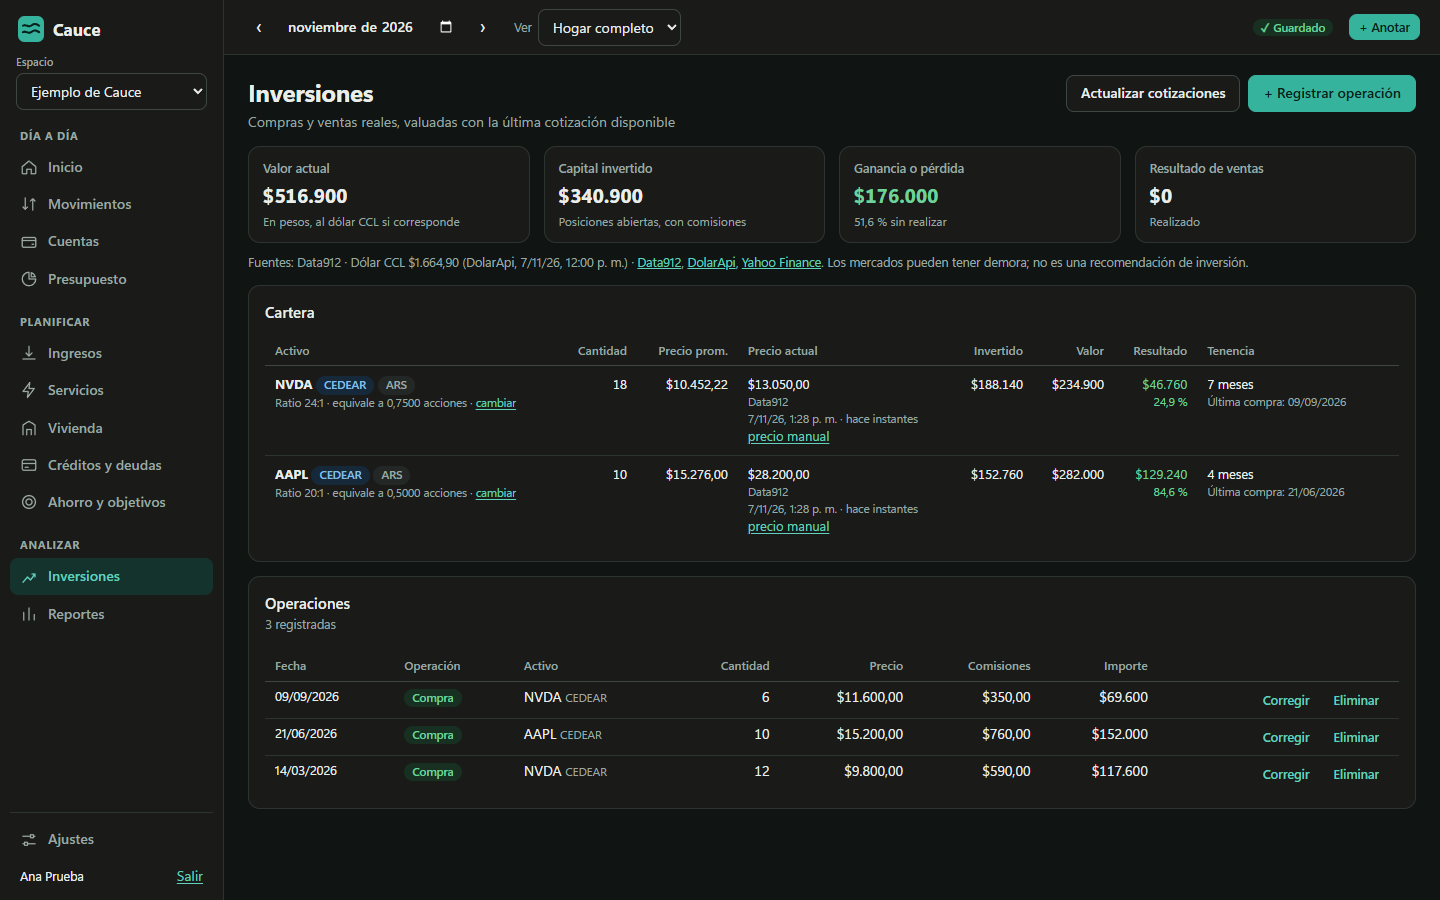
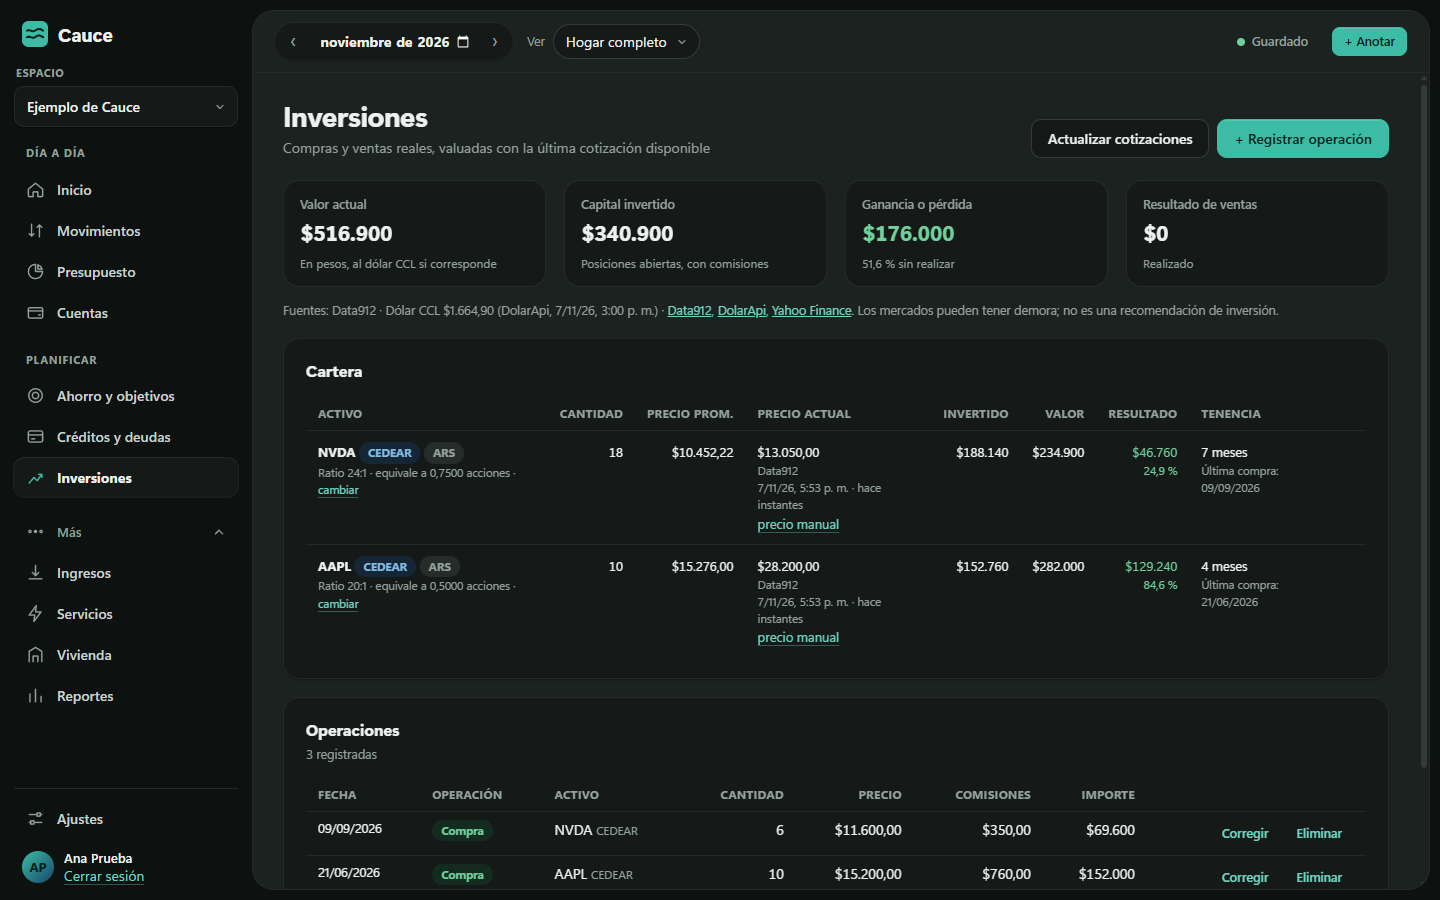
README y capturas de la versión 1.3: rediseño completo

diff --git a/README.md b/README.md
@@ -20,7 +20,7 @@
 <p align="center">
   <a href="https://github.com/th-arroyo/cauce-releases/releases/latest"><strong>Descargar para Windows</strong></a>
   ·
-  <a href="#novedades-de-la-versión-12">Novedades</a>
+  <a href="#novedades-de-la-versión-13">Novedades</a>
   ·
   <a href="#instalación">Cómo instalar</a>
   ·
@@ -30,7 +30,7 @@
 <p align="center">
   <picture>
     <source media="(prefers-color-scheme: dark)" srcset="assets/inicio-oscuro.png">
-    <img src="assets/inicio-claro.png" alt="Pantalla de inicio de Cauce con el restante del mes, el reparto del presupuesto y el plan de acción" width="900">
+    <img src="assets/inicio-claro.png" alt="Pantalla de inicio de Cauce con lo que te quedaría al cerrar el mes, los pagos vencidos, los próximos pagos y el presupuesto" width="900">
   </picture>
 </p>
 
@@ -64,9 +64,22 @@ Cauce convierte tus ingresos, gastos, deudas e inversiones en un presupuesto y u
 | **Reportes** | En qué se fue la plata por categoría, ingresos contra gastos mes a mes y cuánto te quedó. |
 | **Inversiones** | CEDEARs y acciones con cotizaciones actualizadas, precio promedio, resultado y tiempo de tenencia. |
 
+**A tu gusto:** tema claro u oscuro, o que siga a Windows.
+
 **En pareja o en familia:** compartí un espacio con permiso de lectura o de edición. Si los dos cargan cosas al mismo tiempo, Cauce las combina solo.
 
-## Novedades de la versión 1.2
+## Novedades de la versión 1.3
+
+**Cauce, renovado.** Un diseño nuevo, más limpio y más claro. Tus datos y tus cálculos siguen exactamente igual.
+
+- **Un Inicio que se entiende de un vistazo.** Arriba, cuánto te quedaría al cerrar el mes y la cuenta que lleva a ese número. Abajo, lo que necesita tu atención, los próximos pagos y tu presupuesto.
+- **Menú más simple.** Lo de todos los días a mano; Ingresos, Servicios, Vivienda y Reportes están en «Más».
+- **Claro u oscuro, a tu gusto.** En **Ajustes › Cuenta y apariencia** elegís el tema, o dejás que siga a Windows.
+- **Todo más prolijo.** Números más grandes, tarjetas más limpias, pestañas y ventanas nuevas en todas las pantallas.
+
+<details>
+<summary><b>Lo que llegó en la versión 1.2</b></summary>
+<br>
 
 - **Edición en pareja sin conflictos.** Los cambios de cada persona se combinan solos; Cauce solo pregunta cuando los dos cambiaron exactamente lo mismo.
 - **Cuentas, billeteras y dólares**, con valuación al dólar MEP.
@@ -75,7 +88,9 @@ Cauce convierte tus ingresos, gastos, deudas e inversiones en un presupuesto y u
 - **Reportes** con el historial de lo que realmente registraste.
 - **Anotar rápido** y **recordatorios** de vencimientos.
 - **Guía inicial** de cinco pasos para empezar sin recorrer todas las secciones.
-- **Menú más simple:** lo diario adelante y las opciones avanzadas guardadas en «Más opciones».
+- **Eliminar espacios** y una ventana con las novedades después de cada actualización.
+
+</details>
 
 El detalle de cada versión está en [Releases](https://github.com/th-arroyo/cauce-releases/releases).
 
